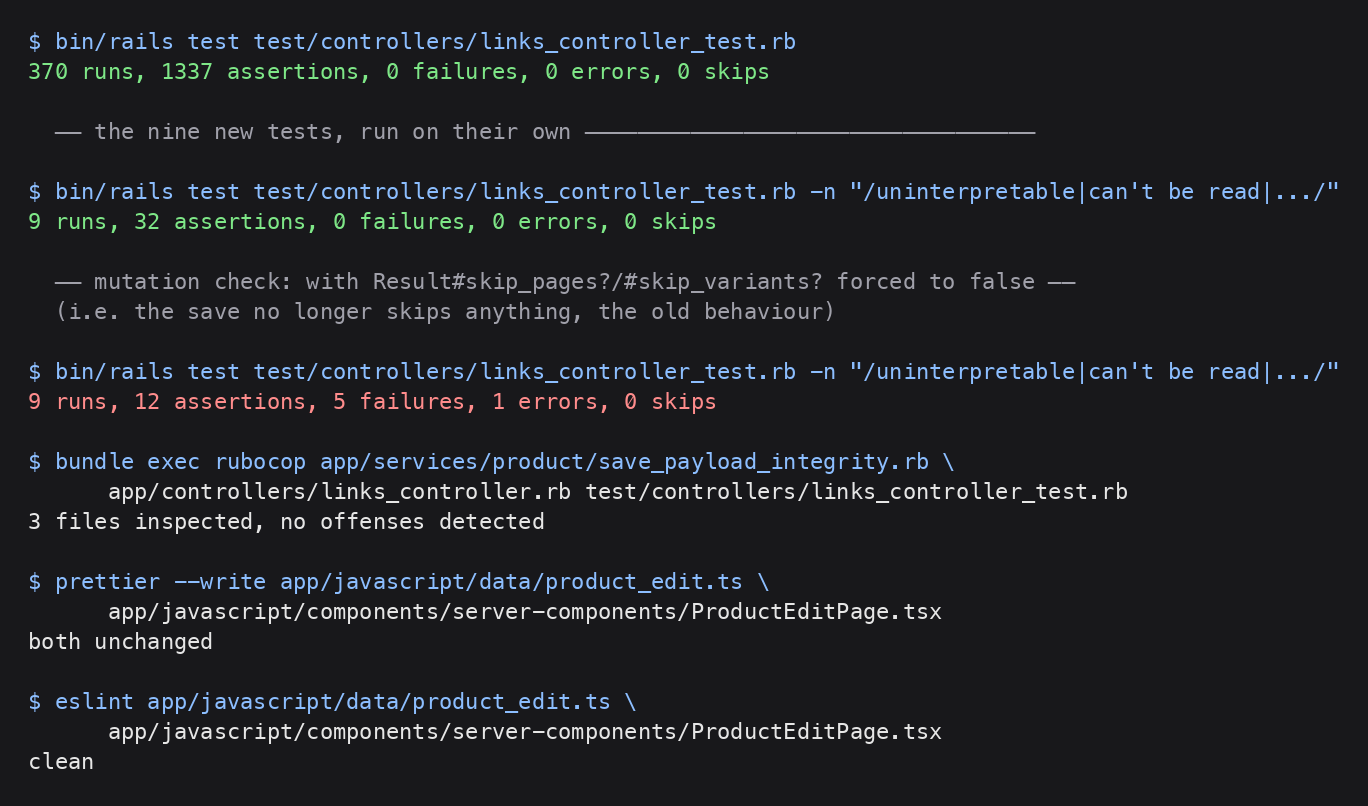
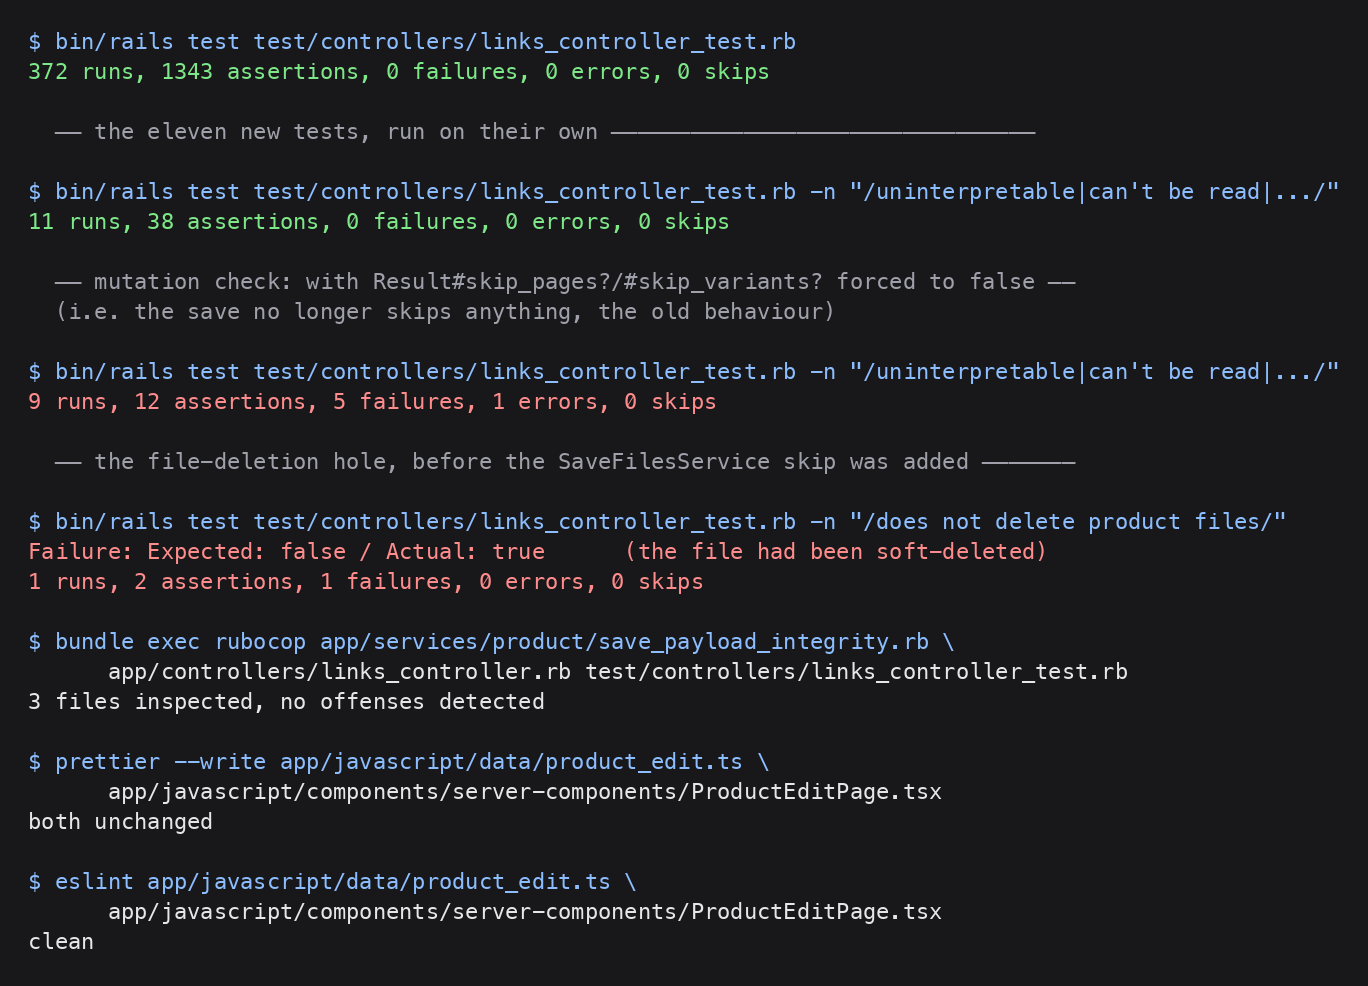
Keep a product's files when the payload its file list came from can't be read
The editor decides which files to submit from the content it is submitting — a
file is kept if one of the pages being sent embeds it — and the file save then
deletes every stored file missing from that list. So a payload whose pages or
versions the server can't read arrives carrying a file list derived from that
same unreadable content.

Previously that didn't matter: the save was rejected and rolled back. Now the
save commits, so the file step has to be skipped along with the content, or a
save that leaves the pages untouched would delete the files those pages embed.
Skipping the versions therefore skips the pages too, for the same reason: the
file list can't be trusted about half of the content when the other half was
unreadable.

diff --git a/app/controllers/links_controller.rb b/app/controllers/links_controller.rb
@@ -522,7 +522,14 @@ class LinksController < ApplicationController
         product_permitted_params[:variants].each { rich_content_params.push(*_1[:rich_content]) } if !payload_integrity.skip_variants? && product_permitted_params[:variants].present?
         rich_content_params = rich_content_params.flat_map { _1[:description] = _1.dig(:description, :content) }
         rich_contents_to_keep = []
-        SaveFilesService.perform(@product, product_permitted_params, rich_content_params)
+        # The submitted file list is derived from the submitted content — the
+        # editor keeps a file if one of the pages it is sending embeds it — and
+        # this step deletes every stored file missing from that list. So a
+        # payload whose content couldn't be read can't be allowed to decide
+        # which files survive either. Skipping this also means files added in
+        # such a save aren't stored, which is the same "left as it was" outcome
+        # the seller is told about.
+        SaveFilesService.perform(@product, product_permitted_params, rich_content_params) unless payload_integrity.skip_content?
         existing_rich_contents = @product.alive_rich_contents.to_a
         rich_content.each.with_index do |product_rich_content, index|
           rich_content = existing_rich_contents.find { |c| c.external_id === product_rich_content[:id] } || @product.alive_rich_contents.build
@@ -1108,12 +1115,14 @@ class LinksController < ApplicationController
     # Names the collections this save left alone because it couldn't interpret
     # them. The save succeeded, but part of what the editor sent was not
     # applied, and the editor must not present its local state as saved — it
-    # should reload that collection from the server. Omitted entirely on a
-    # normal save so the response shape doesn't change for the common case.
+    # should reload that collection from the server. Reports what the payload
+    # actually got wrong (not the wider set of things skipped as a consequence),
+    # and is omitted entirely on a normal save so the response shape doesn't
+    # change for the common case.
     def skipped_collections_response
       skipped = []
-      skipped << "rich_content" if payload_integrity.skip_pages?
-      skipped << "variants" if payload_integrity.skip_variants?
+      skipped << "rich_content" if payload_integrity.skipped_pages_reason.present?
+      skipped << "variants" if payload_integrity.skipped_variants_reason.present?
       return {} if skipped.empty?
 
       { skipped_collections: skipped }

diff --git a/test/controllers/links_controller_test.rb b/test/controllers/links_controller_test.rb
@@ -1520,6 +1520,38 @@ class LinksControllerUpdateTest < ActionController::TestCase
     assert_not response.parsed_body.key?("skipped_collections")
   end
 
+  test "PUT update does not delete product files when the payload's pages can't be read" do
+    # The editor derives which files to submit from the content it is
+    # submitting: a file is kept if some page embeds it. So a payload whose
+    # pages the server can't read carries a file list derived from that same
+    # unreadable content — and the file save deletes every file missing from
+    # the list. Before, the rejected save rolled that back; now the save
+    # commits, so the file step has to be skipped along with the pages.
+    page = create_rich_content(entity: @product, description: guard_content_description)
+    file = create_product_file(link: @product)
+    @product.reload
+
+    post :update, params: @params.merge(rich_content: "not-a-list", files: []), format: :json
+
+    assert_response :success
+    assert_equal false, file.reload.deleted?
+    assert_equal false, page.reload.deleted?
+  end
+
+  test "PUT update does not delete product files when the payload's versions can't be read" do
+    # Same reason as the pages case: the file list came from content the server
+    # couldn't read, so it can't be allowed to decide which files survive.
+    setup_guarded_version!
+    file = create_product_file(link: @product)
+    @product.reload
+
+    post :update, params: @params.merge(variants: "not-a-list", files: []), format: :json
+
+    assert_response :success
+    assert_equal false, file.reload.deleted?
+    assert_equal ["variants"], response.parsed_body["skipped_collections"]
+  end
+
   test "PUT update blocks deleting a title-only page missing from the payload" do
     # A page can carry nothing but a title (its body is an empty paragraph).
     # That title is seller-authored work and renders in the buyer's page list,

diff --git a/app/services/product/save_payload_integrity.rb b/app/services/product/save_payload_integrity.rb
@@ -49,16 +49,29 @@ class Product::SavePayloadIntegrity
   # including entries whose ids the server doesn't recognise — is a payload the
   # save can act on.
   Result = Struct.new(:skipped_pages_reason, :skipped_variants_reason, keyword_init: true) do
+    # Pages are skipped when the pages themselves were unreadable, and ALSO
+    # when the versions were: the editor decides which files to submit from the
+    # content it is submitting (a file is kept if some page embeds it), so a
+    # payload that couldn't describe its versions also can't be trusted about
+    # which files and pages that content needs. Applying the readable half of
+    # the content against a file list derived from the unreadable half is how
+    # you delete a file a surviving page still embeds.
     def skip_pages?
-      skipped_pages_reason.present?
+      skipped_pages_reason.present? || skipped_variants_reason.present?
     end
 
     def skip_variants?
       skipped_variants_reason.present?
     end
 
-    def any?
+    # Whether any of the product's content — pages, versions, or the files they
+    # embed — has to be left as the server already has it.
+    def skip_content?
       skip_pages? || skip_variants?
+    end
+
+    def any?
+      skip_content?
     end
   end
 
